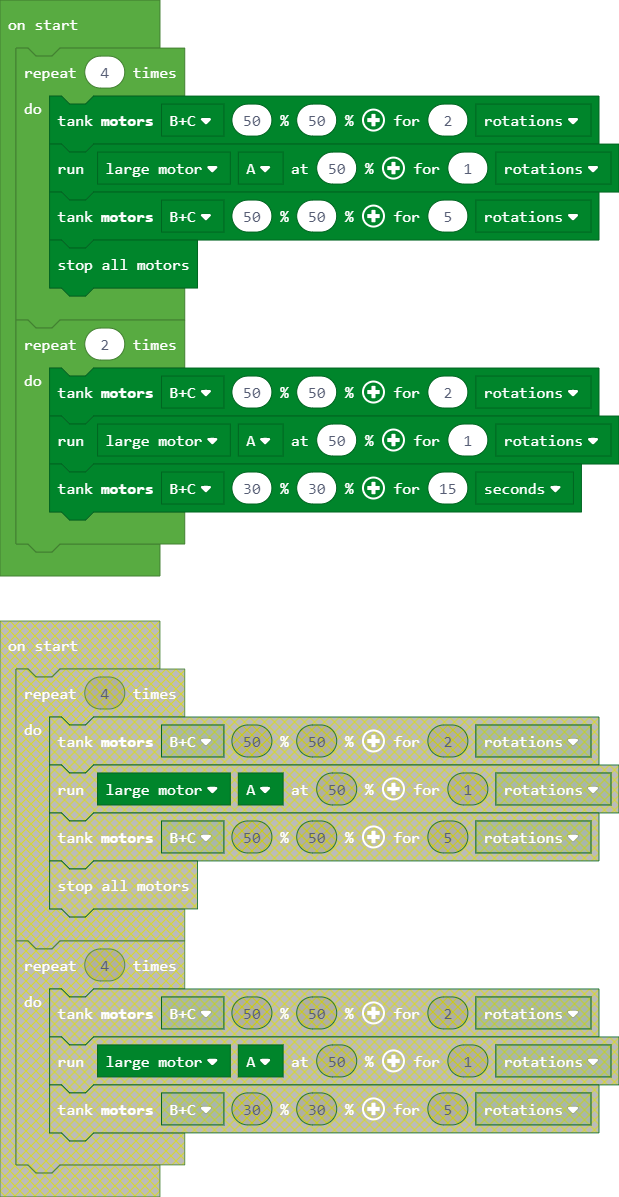
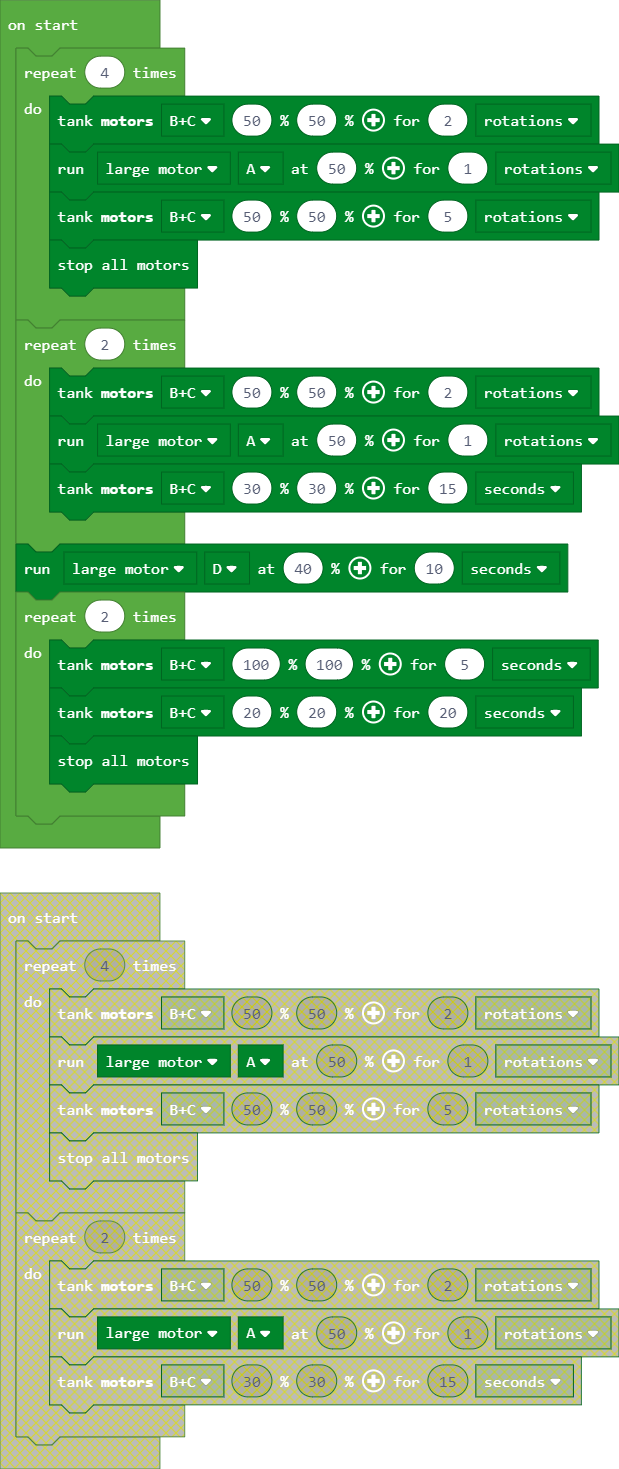
Update main.blocks, main.ts

diff --git a/main.ts b/main.ts
@@ -9,3 +9,9 @@ for (let index = 0; index < 2; index++) {
     motors.largeA.run(50, 1, MoveUnit.Rotations)
     motors.largeBC.tank(30, 30, 15, MoveUnit.Seconds)
 }
+motors.largeD.run(40, 10, MoveUnit.Seconds)
+for (let index = 0; index < 2; index++) {
+    motors.largeBC.tank(100, 100, 5, MoveUnit.Seconds)
+    motors.largeBC.tank(20, 20, 20, MoveUnit.Seconds)
+    motors.stopAll()
+}
